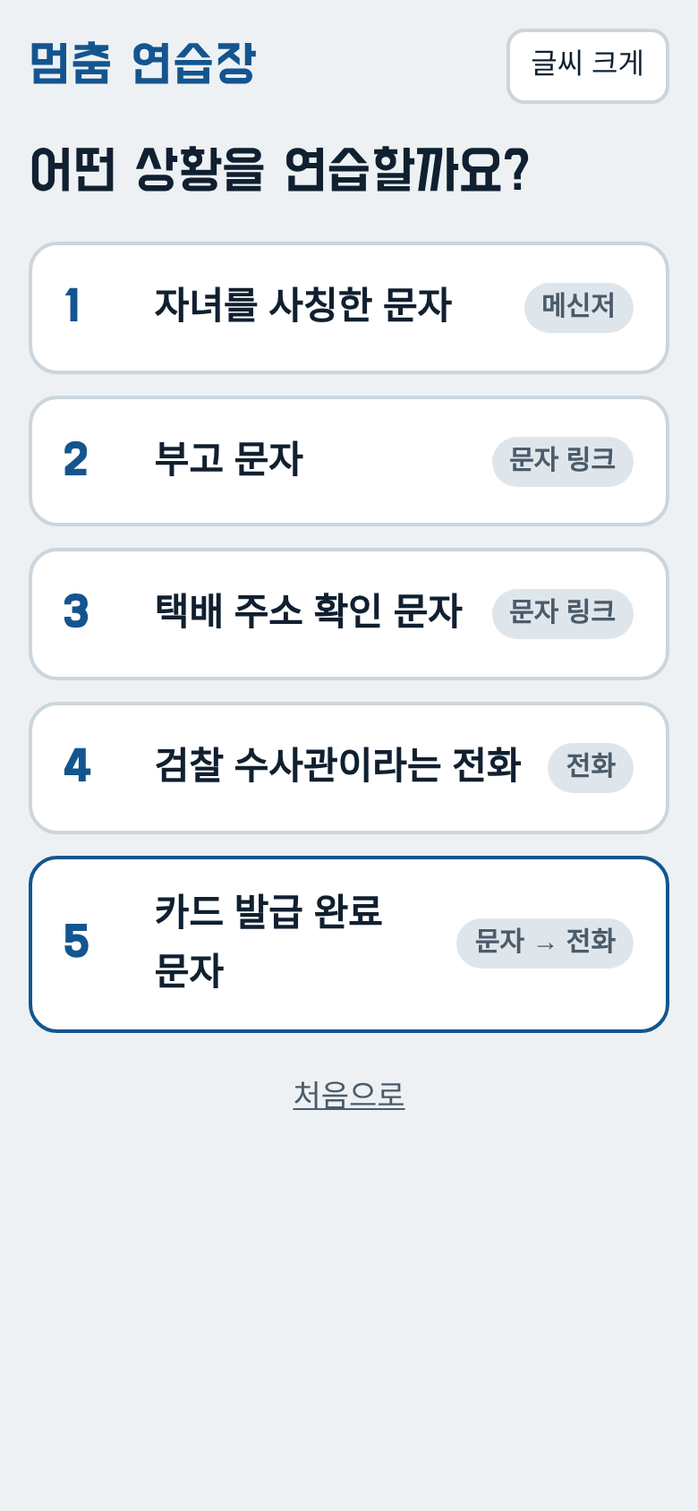
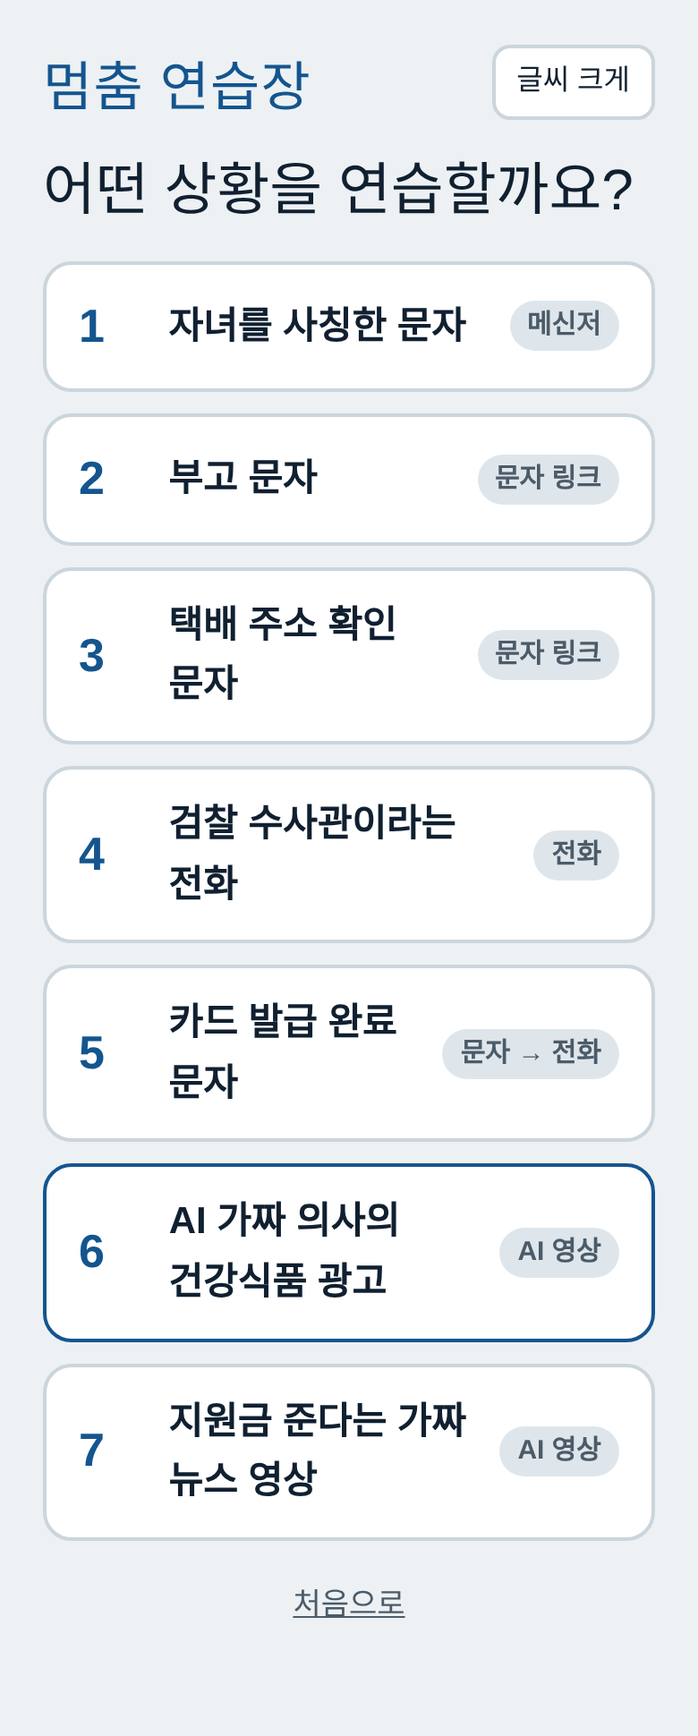
AI 허위 영상 시나리오 2개 추가, 분기 지도 자동 생성
- AI 가짜 의사 건강식품 광고, 지원금 가짜 뉴스 영상 시나리오
- 영상 화면 형식(프레임·채널·영상 속 말) 추가
- scripts/make-map.js: 분기 지도 생성 + 끊긴 선택지 검사
- 기록 화면 점수 분모를 문제 수에 맞춤
- README·조사·개발 일지·테스트 문서 갱신

Claude-Session: https://claude.ai/code/session_01ChggF4fzTzvr3BWw3pu4VJ

diff --git a/index.html b/index.html
@@ -76,6 +76,11 @@ p { margin: 0; }
 .call { padding: 22px 16px; text-align: center; display: flex; flex-direction: column; gap: 6px; align-items: center; }
 .call .ring { font-size: 0.8rem; color: var(--muted); letter-spacing: 0.08em; }
 .call .num { font-family: var(--font-display); font-size: 1.6rem; }
+.vframe { position: relative; aspect-ratio: 16 / 10; background: #0B1219; color: #FFFFFF; display: flex; align-items: flex-end; padding: 16px; box-sizing: border-box; }
+.vframe .vbadge { position: absolute; top: 12px; left: 12px; font-size: 0.7rem; font-weight: 700; background: #F2C230; color: #111; border-radius: 6px; padding: 2px 8px; }
+.vframe .vplay { position: absolute; top: 50%; left: 50%; transform: translate(-50%, -60%); width: 56px; height: 56px; border-radius: 50%; background: rgba(255,255,255,0.18); display: grid; place-items: center; font-size: 1.3rem; }
+.vframe .vcap { font-family: var(--font-display); font-size: 1.25rem; line-height: 1.3; text-shadow: 0 1px 3px rgba(0,0,0,0.6); }
+.bub.say::before { content: "영상 속 말: "; font-size: 0.75rem; font-weight: 700; color: var(--muted); display: block; }
 .ask { font-weight: 700; font-size: 1.1rem; }
 .speak { font: inherit; font-size: 0.85rem; font-weight: 700; color: var(--accent); background: none; border: 2px solid var(--accent); border-radius: 999px; padding: 6px 14px; align-self: flex-start; cursor: pointer; }
 .verdict { border-radius: 20px; padding: 20px; display: flex; flex-direction: column; gap: 10px; border: 2px solid; }
@@ -215,6 +220,45 @@ th { color: var(--muted); font-weight: 700; }
         danger1: { end: "danger", text: "설치한 앱으로 사기범이 휴대폰을 마음대로 조종해 계좌의 돈을 빼 갔어요." }
       },
       lesson: ["모르는 카드 발급 문자는 미끼입니다. 문자 속 번호로 전화하지 마세요.", "카드사나 은행 확인은 카드 뒷면이나 통장에 적힌 번호로 직접 하세요.", "전화로 앱을 설치하라고 하면 사기입니다."]
+    },
+    {
+      id: "aidoctor", tag: "AI 영상", title: "AI 가짜 의사의 건강식품 광고",
+      who: "닥터건강TV", sub: "광고 · 조회수 128만회", kind: "video", badge: "광고",
+      screen: "30년 정형외과 의사가 말하는\n무릎 통증, 이것 하나면 끝",
+      nodes: {
+        start: { msgs: [["them", "안녕하세요, 30년 경력 정형외과 의사입니다."], ["them", "무릎 연골, 약에만 의지하지 마세요. 이 추출물 하나면 2주 만에 계단을 가볍게 오릅니다."], ["them", "오늘 영상 보신 분만 70% 할인! 곧 마감됩니다."], ["note", "화면 아래에 [지금 구매하기] 버튼이 깜빡여요."]],
+          ask: "의사가 직접 나와서 권해요. 어떻게 하시겠어요?",
+          choices: [["의사가 하는 말이니 [지금 구매하기]를 누른다", "n2"], ["다니는 병원 의사나 약사에게 이 제품을 물어본다", "safe1"], ["자녀에게 영상을 보여 주고 같이 살펴본다", "safe2"]] },
+        n2: { msgs: [["note", "구매 화면이 나왔어요.\n'3개월분 189,000원 → 오늘만 56,700원\n이름, 주소, 카드번호를 입력하세요'"], ["note", "다시 보니 영상 속 의사의 입 모양이 말과 조금 어긋나 보여요."]],
+          ask: "할인이 오늘까지래요.",
+          choices: [["놓치기 전에 카드번호를 입력한다", "danger1"], ["뭔가 이상하다. 화면을 닫고 가족에게 물어본다", "warn1"]] },
+        safe1: { end: "safe", text: "약사에게 물어보니 '먹기만 하면 낫는' 건강식품은 없다고 했어요. 영상 속 의사는 AI로 만든 가짜였습니다." },
+        safe2: { end: "safe", text: "자녀가 함께 보더니 AI로 만든 가짜 의사라고 알려줬어요. 'AI로 만든 영상'이라는 표시도 없었어요." },
+        warn1: { end: "warn", text: "결제 전에 잘 멈추셨어요. 이미 돈을 냈다면 카드사와 1372(소비자상담센터)에 바로 알리세요." },
+        danger1: { end: "danger", text: "평범한 식품을 비싸게 산 데다, 카드 정보가 넘어가 다른 결제까지 빠져나갔어요. 먹던 약을 끊어 무릎 통증도 심해졌어요." }
+      },
+      lesson: ["광고 속 의사·유명인은 AI로 만든 가짜일 수 있어요. 영상에서 특정 제품을 사라고 하면 의심하세요.", "'먹기만 하면 낫는다', '오늘만 할인'은 과장 광고의 신호예요.", "사기 전에, 그리고 먹던 약을 끊기 전에 다니는 병원 의사나 약사에게 먼저 물어보세요."]
+    },
+    {
+      id: "fakenews", tag: "AI 영상", title: "지원금 준다는 가짜 뉴스 영상",
+      who: "속보뉴스24", sub: "조회수 54만회 · 3시간 전", kind: "video", badge: "속보",
+      screen: "65세 이상 '특별 생활지원금'\n50만 원 지급 확정",
+      nodes: {
+        start: { msgs: [["them", "정부가 65세 이상 어르신께 특별 생활지원금 50만 원을 지급하기로 했습니다."], ["them", "신청은 이번 주 금요일까지, 영상 아래 링크에서만 받습니다."], ["note", "영상 설명란: 신청하기 |gov-support.kr-apply.top|"]],
+          ask: "뉴스라서 믿음이 가요. 어떻게 하시겠어요?",
+          choices: [["링크를 눌러 바로 신청한다", "n2"], ["친구들 단체방에 영상을 공유한다", "n3"], ["주민센터나 129(보건복지상담센터)에 진짜인지 물어본다", "safe1"]] },
+        n2: { msgs: [["note", "정부 사이트처럼 생긴 화면이 나왔어요.\n'지원금 받을 계좌번호, 주민등록번호, 휴대폰 인증번호를 입력하세요'"]],
+          ask: "지원금 받을 계좌를 적으래요.",
+          choices: [["모두 입력하고 인증번호도 넣는다", "danger1"], ["인증번호까지 달라니 이상하다. 닫고 주민센터에 물어본다", "warn1"]] },
+        n3: { msgs: [["me", "이것 좀 봐요, 50만 원 준대요!"], ["note", "단체방 친구가 답했어요: '이거 AI로 만든 가짜 뉴스래. 우리 아들이 그러더라.'"]],
+          ask: "친구가 가짜라고 해요.",
+          choices: [["그래도 혹시 모르니 링크를 눌러 본다", "n2"], ["공유한 영상을 지우고 주민센터에 확인한다", "warn2"]] },
+        safe1: { end: "safe", text: "주민센터에서는 그런 지원금이 없다고 했어요. 영상 속 아나운서는 AI로 만든 가짜였습니다." },
+        warn1: { end: "warn", text: "개인정보를 넣기 전에 멈추셨어요. 이미 무언가 입력했다면 가족에게 알리고 118(한국인터넷진흥원)에 상담하세요." },
+        warn2: { end: "warn", text: "가짜 뉴스를 여러 사람에게 퍼뜨릴 뻔했어요. 놀라운 소식일수록 공유하기 전에 먼저 확인해요." },
+        danger1: { end: "danger", text: "주민등록번호와 인증번호로 사기범이 어르신 이름의 휴대폰을 만들고 대출을 받았어요. 지원금은 처음부터 없었습니다." }
+      },
+      lesson: ["정부 지원금은 영상 속 링크로 신청하지 않아요. 주민센터나 129에 먼저 물어보세요.", "아나운서와 뉴스 화면도 AI로 진짜처럼 만들 수 있어요. 믿을 만한 방송사 뉴스에도 나오는지 확인하세요.", "놀라운 영상일수록 공유하기 전에 멈추세요. 가족과 친구가 피해를 볼 수 있어요."]
     }
   ];
 
@@ -261,7 +305,7 @@ th { color: var(--muted); font-weight: 700; }
   function home() {
     const doneCount = SC.filter(s => store.played[s.id]).length;
     render(`
-      <h1>이상한 문자와 전화,<br>미리 겪어 보고 막아요</h1>
+      <h1>이상한 문자·전화·영상,<br>미리 겪어 보고 막아요</h1>
       <p class="lead">진짜 같은 사기 상황이 나와요. 버튼을 눌러 어떻게 할지 고르면, 무엇이 안전한지 알려 드려요.</p>
       <div class="rule" aria-label="기억할 세 가지">
         <div><b>멈춤</b>바로 하지 않기</div><div><b>끊기</b>전화·문자 끊기</div><div><b>확인</b>원래 번호로 전화</div>
@@ -294,11 +338,16 @@ th { color: var(--muted); font-weight: 700; }
   function step(nodeId) {
     const s = cur.s, n = s.nodes[nodeId];
     if (n.end) return ending(n);
-    const msgs = n.msgs.map(([w, t]) => `<div class="bub ${w === "me" ? "me" : w === "note" ? "note" : ""}">${fmt(t)}</div>`).join("");
+    const video = s.kind === "video";
+    const msgs = n.msgs.map(([w, t]) => `<div class="bub ${w === "me" ? "me" : w === "note" ? "note" : video ? "say" : ""}">${fmt(t)}</div>`).join("");
+    const icon = { call: "☎", chat: "✉", video: "▶" }[s.kind];
+    const head = `<div class="phone-head"><div class="avatar" aria-hidden="true">${icon}</div><div class="who">${esc(s.who)}<div class="sub">${esc(s.sub)}</div></div></div>`;
     const top = s.kind === "call" && nodeId === "start"
       ? `<div class="call"><span class="ring">걸려온 전화</span><span class="num">${esc(s.who)}</span></div>`
-      : `<div class="phone-head"><div class="avatar" aria-hidden="true">${s.kind === "call" ? "☎" : "✉"}</div><div class="who">${esc(s.who)}<div class="sub">${esc(s.sub)}</div></div></div>`;
-    const readText = n.msgs.map(m => plain(m[1])).join(" ") + " " + n.ask + " " + n.choices.map((c, i) => (i + 1) + "번, " + c[0]).join(". ");
+      : video && nodeId === "start"
+        ? `<div class="vframe" role="img" aria-label="영상 화면: ${esc(plain(s.screen))}"><span class="vbadge">${esc(s.badge)}</span><span class="vplay" aria-hidden="true">▶</span><span class="vcap">${fmt(s.screen)}</span></div>${head}`
+        : head;
+    const readText = (video && nodeId === "start" ? plain(s.screen) + ". " : "") + n.msgs.map(m => plain(m[1])).join(" ") + " " + n.ask + " " + n.choices.map((c, i) => (i + 1) + "번, " + c[0]).join(". ");
     render(`
       <p class="trail">${esc(s.title)}</p>
       <div class="phone">${top}<div class="chat">${msgs}</div></div>
@@ -418,10 +467,10 @@ th { color: var(--muted); font-weight: 700; }
     const rows = Object.keys(people).map(p => {
       const a = people[p]["사전"], b = people[p]["사후"];
       const d = a && b ? b.score - a.score : null;
-      return `<tr><td>${esc(p)}</td><td>${a ? a.score + "/5" : "-"}</td><td>${b ? b.score + "/5" : "-"}</td><td>${d === null ? "-" : (d > 0 ? "+" : "") + d}</td></tr>`;
+      return `<tr><td>${esc(p)}</td><td>${a ? a.score + "/" + QUIZ.length : "-"}</td><td>${b ? b.score + "/" + QUIZ.length : "-"}</td><td>${d === null ? "-" : (d > 0 ? "+" : "") + d}</td></tr>`;
     }).join("");
     const pre = store.tests.filter(r => r.phase === "사전"), post = store.tests.filter(r => r.phase === "사후");
-    const avg = arr => arr.length ? (arr.reduce((n, r) => n + r.score, 0) / arr.length / 5 * 100).toFixed(0) + "%" : "-";
+    const avg = arr => arr.length ? (arr.reduce((n, r) => n + r.score, 0) / arr.length / QUIZ.length * 100).toFixed(0) + "%" : "-";
     const ends = { safe: 0, warn: 0, danger: 0 };
     store.plays.forEach(p => ends[p.end]++);
     render(`

diff --git a/scripts/make-map.js b/scripts/make-map.js
@@ -1,0 +1,55 @@
+// index.html의 시나리오 데이터(SC)로 docs/scenario-map.md를 다시 만듭니다.
+// 사용법: node scripts/make-map.js
+const fs = require("fs");
+const path = require("path");
+
+const root = path.join(__dirname, "..");
+const html = fs.readFileSync(path.join(root, "index.html"), "utf8");
+const m = html.match(/const SC = (\[[\s\S]*?\n  \]);/);
+if (!m) throw new Error("index.html에서 SC 배열을 찾지 못했습니다.");
+const SC = new Function("return " + m[1])();
+
+const q = s => String(s).replace(/\|/g, "").replace(/\n/g, " ").replace(/"/g, "'");
+const label = { safe: "안전", warn: "아슬아슬", danger: "피해" };
+
+// 데이터 점검: 없는 노드로 가는 선택지, 도달할 수 없는 노드
+for (const s of SC) {
+  const seen = new Set(), todo = ["start"];
+  while (todo.length) {
+    const id = todo.pop();
+    if (seen.has(id)) continue;
+    const n = s.nodes[id];
+    if (!n) throw new Error(`${s.id}: 없는 노드 '${id}'`);
+    seen.add(id);
+    if (!n.end) n.choices.forEach(c => todo.push(c[1]));
+  }
+  const orphan = Object.keys(s.nodes).filter(id => !seen.has(id));
+  if (orphan.length) throw new Error(`${s.id}: 도달할 수 없는 노드 ${orphan.join(", ")}`);
+}
+
+let asks = 0, ends = 0;
+const parts = SC.map((s, i) => {
+  const lines = ["```mermaid", "flowchart TD"];
+  for (const [id, n] of Object.entries(s.nodes)) {
+    const k = `${s.id}_${id}`;
+    if (n.end) {
+      ends++;
+      lines.push(`  ${k}["${label[n.end]}: ${q(n.text)}"]:::${n.end}`);
+    } else {
+      asks++;
+      lines.push(`  ${k}{"${q(n.ask)}"}`);
+      n.choices.forEach(([t, to]) => lines.push(`  ${k} -->|"${q(t)}"| ${s.id}_${to}`));
+    }
+  }
+  lines.push("  classDef safe fill:#E2F3E9,stroke:#1A7A47", "  classDef warn fill:#FBF0DC,stroke:#9A5B00", "  classDef danger fill:#FBE5E3,stroke:#B8322A", "```");
+  return `## ${i + 1}. ${s.title}\n\n${lines.join("\n")}\n\n**이것만 기억하세요**\n\n${s.lesson.map((l, j) => `${j + 1}. ${l}`).join("\n")}\n`;
+});
+
+const out = `# 시나리오 분기 지도
+
+${SC.length}개 시나리오의 선택 흐름입니다. 초록은 안전, 노랑은 아슬아슬, 빨강은 피해 결말입니다. \`index.html\`의 시나리오 데이터에서 \`node scripts/make-map.js\`로 자동으로 만들었습니다.
+선택 화면 ${asks}개, 결말 ${ends}개.
+
+${parts.join("\n")}`;
+fs.writeFileSync(path.join(root, "docs", "scenario-map.md"), out);
+console.log(`시나리오 ${SC.length}개, 선택 화면 ${asks}개, 결말 ${ends}개`);

diff --git a/README.md b/README.md
@@ -1,8 +1,8 @@
 # 멈춤 연습장
 
-> 어르신이 사기 문자와 전화를 **미리 겪어 보고** 대응을 연습하는 모바일 웹앱
+> 어르신이 사기 문자·전화·AI 허위 영상을 **미리 겪어 보고** 대응을 연습하는 모바일 웹앱
 
-**▶ 바로 써 보기:** https://<깃허브-아이디>.github.io/mumchum/ (설치 없이 휴대폰 브라우저에서 열림)
+**▶ 바로 써 보기:** https://haseungjune0614-create.github.io/mumchum/ (설치 없이 휴대폰 브라우저에서 열림)
 
 가천대학교 아르테크네센터 2026 프로젝트 「정해진 답은 없다」 참가작입니다.
 키워드: **대상** 노인 · **물건** 스마트폰 · **형식** 앱 · **목적** 안전
@@ -15,9 +15,10 @@
 
 ## 왜 만들었나
 
-어르신은 자녀 사칭 문자, 부고·택배 링크, 검찰 사칭 전화 같은 사기에 자주 노출되지만, 막상 그 순간에 어떻게 해야 하는지는 미리 연습할 기회가 없습니다.
+어르신은 자녀 사칭 문자, 부고·택배 링크, 검찰 사칭 전화, AI로 만든 가짜 의사·가짜 뉴스 영상 같은 사기에 자주 노출되지만, 막상 그 순간에 어떻게 해야 하는지는 미리 연습할 기회가 없습니다.
 
 - 2025년 보이스피싱 피해액은 **1조 2,578억 원**으로 최근 5년 중 최대이고, 그중 **78.6%가 기관사칭형**입니다. ([경찰청 자료 보도](https://www.inews24.com/view/2008688))
+- 2026년 4월 유튜브 '노인 건강' 조회수 상위 100개 영상 중 **42개가 생성형 AI로 제작**됐고, **24개는 의사 등 전문가를 사칭**했습니다. ([한국건강증진개발원 자료 보도](https://biz.sbs.co.kr/amp/article/20000340952))
 - 2025년 상반기 스미싱 문자 약 3만 7천 건 중 금융기관 사칭 19%, 청첩·부고 등 지인 사칭 12%였습니다. ([카카오뱅크 분석 보도](https://biz.sbs.co.kr/amp/article/20000245520))
 
 설명을 읽는 교육보다 **직접 골라 보고 결과를 겪어 보는 연습**이 실제 상황에서 행동으로 이어진다고 보고, 선택형 시뮬레이터로 만들었습니다.
@@ -35,7 +36,7 @@
 
 | 기능 | 내용 |
 | --- | --- |
-| 사기 상황 5개 | 자녀 사칭 문자 · 부고 링크 문자 · 택배 문자 · 검찰 사칭 전화 · 카드 발급 문자 ([분기 지도](docs/scenario-map.md)) |
+| 사기 상황 7개 | 자녀 사칭 문자 · 부고 링크 문자 · 택배 문자 · 검찰 사칭 전화 · 카드 발급 문자 · **AI 가짜 의사 광고 · 가짜 뉴스 영상** ([분기 지도](docs/scenario-map.md)) |
 | 어르신용 화면 | 기본 20px 글씨, "글씨 크게" 24px, 버튼 높이 64px 이상, 한 화면에 질문 하나 |
 | 소리로 듣기 | 문자 내용과 선택지를 음성으로 읽어 줌 (브라우저 음성 합성) |
 | 가족 암호 카드 | 가족만 아는 질문을 정해 큰 카드로 보여 줌 |
@@ -47,6 +48,11 @@
   <img src="screenshots/08_family.png" width="230" alt="가족 암호 카드">
   <img src="screenshots/09_records.png" width="230" alt="사전·사후 기록">
 </p>
+<p>
+  <img src="screenshots/11_ai_doctor.png" width="230" alt="AI 가짜 의사 건강식품 광고">
+  <img src="screenshots/13_fake_news.png" width="230" alt="지원금 가짜 뉴스 영상">
+  <img src="screenshots/14_fake_news_warn.png" width="230" alt="가짜 뉴스 공유 결말">
+</p>
 
 ## 기술
 
@@ -54,6 +60,7 @@
 - 기록은 브라우저 `localStorage`에만 저장 (개인정보를 서버로 보내지 않음)
 - Web Speech API로 음성 읽기, 다크 모드 지원
 - 시나리오는 노드 그래프 데이터로 작성 → 새 사기 유형을 데이터만 추가해 확장
+- `node scripts/make-map.js`로 분기 지도 문서를 자동 생성하고, 끊긴 선택지·도달할 수 없는 화면을 검사
 - 개발 과정에서 생성형 AI(Claude)를 활용했습니다
 
 ## 진행 과정
@@ -62,13 +69,13 @@
 | --- | --- |
 | [조사와 인터뷰](docs/01-research.md) | 사기 통계, 할머니 인터뷰, 유형 선정 이유 |
 | [설계](docs/02-design.md) | 분기 구조, 어르신 사용성 기준, 사전·사후 문제 설계 |
-| [시나리오 분기 지도](docs/scenario-map.md) | 5개 시나리오의 선택 흐름 (선택 화면 11개, 결말 17개) |
+| [시나리오 분기 지도](docs/scenario-map.md) | 7개 시나리오의 선택 흐름 (선택 화면 16개, 결말 25개) |
 | [테스트](docs/03-testing.md) | 어르신 사전·사후 테스트 방법과 결과 |
 | [개발 일지](docs/devlog.md) | 날짜별 진행 기록 |
 
 ## 다음 계획
 
-- [ ] AI 허위 영상 구별 시나리오 추가 (건강식품·약 광고, 가짜 뉴스 영상) — 할머니 인터뷰에서 나온 요구
+- [x] AI 허위 영상 구별 시나리오 추가 (건강식품·약 광고, 가짜 뉴스 영상) — 할머니 인터뷰에서 나온 요구
 - [ ] 어르신 3명 이상 사전·사후 테스트, 정답률 비교
 - [ ] 테스트 피드백 반영
 - [ ] 3분 시연 영상

diff --git a/docs/scenario-map.md b/docs/scenario-map.md
@@ -1,8 +1,7 @@
 # 시나리오 분기 지도
 
-5개 시나리오의 선택 흐름입니다. 초록은 안전, 노랑은 아슬아슬, 빨강은 피해 결말입니다. `index.html`의 시나리오 데이터에서 자동으로 만들었습니다.
-선택 화면 11개, 결말 17개.
-
+7개 시나리오의 선택 흐름입니다. 초록은 안전, 노랑은 아슬아슬, 빨강은 피해 결말입니다. `index.html`의 시나리오 데이터에서 `node scripts/make-map.js`로 자동으로 만들었습니다.
+선택 화면 16개, 결말 25개.
 
 ## 1. 자녀를 사칭한 문자
 
@@ -135,3 +134,58 @@ flowchart TD
 1. 모르는 카드 발급 문자는 미끼입니다. 문자 속 번호로 전화하지 마세요.
 2. 카드사나 은행 확인은 카드 뒷면이나 통장에 적힌 번호로 직접 하세요.
 3. 전화로 앱을 설치하라고 하면 사기입니다.
+
+## 6. AI 가짜 의사의 건강식품 광고
+
+```mermaid
+flowchart TD
+  aidoctor_start{"의사가 직접 나와서 권해요. 어떻게 하시겠어요?"}
+  aidoctor_start -->|"의사가 하는 말이니 [지금 구매하기]를 누른다"| aidoctor_n2
+  aidoctor_start -->|"다니는 병원 의사나 약사에게 이 제품을 물어본다"| aidoctor_safe1
+  aidoctor_start -->|"자녀에게 영상을 보여 주고 같이 살펴본다"| aidoctor_safe2
+  aidoctor_n2{"할인이 오늘까지래요."}
+  aidoctor_n2 -->|"놓치기 전에 카드번호를 입력한다"| aidoctor_danger1
+  aidoctor_n2 -->|"뭔가 이상하다. 화면을 닫고 가족에게 물어본다"| aidoctor_warn1
+  aidoctor_safe1["안전: 약사에게 물어보니 '먹기만 하면 낫는' 건강식품은 없다고 했어요. 영상 속 의사는 AI로 만든 가짜였습니다."]:::safe
+  aidoctor_safe2["안전: 자녀가 함께 보더니 AI로 만든 가짜 의사라고 알려줬어요. 'AI로 만든 영상'이라는 표시도 없었어요."]:::safe
+  aidoctor_warn1["아슬아슬: 결제 전에 잘 멈추셨어요. 이미 돈을 냈다면 카드사와 1372(소비자상담센터)에 바로 알리세요."]:::warn
+  aidoctor_danger1["피해: 평범한 식품을 비싸게 산 데다, 카드 정보가 넘어가 다른 결제까지 빠져나갔어요. 먹던 약을 끊어 무릎 통증도 심해졌어요."]:::danger
+  classDef safe fill:#E2F3E9,stroke:#1A7A47
+  classDef warn fill:#FBF0DC,stroke:#9A5B00
+  classDef danger fill:#FBE5E3,stroke:#B8322A
+```
+
+**이것만 기억하세요**
+
+1. 광고 속 의사·유명인은 AI로 만든 가짜일 수 있어요. 영상에서 특정 제품을 사라고 하면 의심하세요.
+2. '먹기만 하면 낫는다', '오늘만 할인'은 과장 광고의 신호예요.
+3. 사기 전에, 그리고 먹던 약을 끊기 전에 다니는 병원 의사나 약사에게 먼저 물어보세요.
+
+## 7. 지원금 준다는 가짜 뉴스 영상
+
+```mermaid
+flowchart TD
+  fakenews_start{"뉴스라서 믿음이 가요. 어떻게 하시겠어요?"}
+  fakenews_start -->|"링크를 눌러 바로 신청한다"| fakenews_n2
+  fakenews_start -->|"친구들 단체방에 영상을 공유한다"| fakenews_n3
+  fakenews_start -->|"주민센터나 129(보건복지상담센터)에 진짜인지 물어본다"| fakenews_safe1
+  fakenews_n2{"지원금 받을 계좌를 적으래요."}
+  fakenews_n2 -->|"모두 입력하고 인증번호도 넣는다"| fakenews_danger1
+  fakenews_n2 -->|"인증번호까지 달라니 이상하다. 닫고 주민센터에 물어본다"| fakenews_warn1
+  fakenews_n3{"친구가 가짜라고 해요."}
+  fakenews_n3 -->|"그래도 혹시 모르니 링크를 눌러 본다"| fakenews_n2
+  fakenews_n3 -->|"공유한 영상을 지우고 주민센터에 확인한다"| fakenews_warn2
+  fakenews_safe1["안전: 주민센터에서는 그런 지원금이 없다고 했어요. 영상 속 아나운서는 AI로 만든 가짜였습니다."]:::safe
+  fakenews_warn1["아슬아슬: 개인정보를 넣기 전에 멈추셨어요. 이미 무언가 입력했다면 가족에게 알리고 118(한국인터넷진흥원)에 상담하세요."]:::warn
+  fakenews_warn2["아슬아슬: 가짜 뉴스를 여러 사람에게 퍼뜨릴 뻔했어요. 놀라운 소식일수록 공유하기 전에 먼저 확인해요."]:::warn
+  fakenews_danger1["피해: 주민등록번호와 인증번호로 사기범이 어르신 이름의 휴대폰을 만들고 대출을 받았어요. 지원금은 처음부터 없었습니다."]:::danger
+  classDef safe fill:#E2F3E9,stroke:#1A7A47
+  classDef warn fill:#FBF0DC,stroke:#9A5B00
+  classDef danger fill:#FBE5E3,stroke:#B8322A
+```
+
+**이것만 기억하세요**
+
+1. 정부 지원금은 영상 속 링크로 신청하지 않아요. 주민센터나 129에 먼저 물어보세요.
+2. 아나운서와 뉴스 화면도 AI로 진짜처럼 만들 수 있어요. 믿을 만한 방송사 뉴스에도 나오는지 확인하세요.
+3. 놀라운 영상일수록 공유하기 전에 멈추세요. 가족과 친구가 피해를 볼 수 있어요.

diff --git a/docs/01-research.md b/docs/01-research.md
@@ -12,6 +12,8 @@
 | 2025년 건당 피해액 | 약 5,384만 원 (2021년의 약 2.2배) | 같은 출처 |
 | 기관사칭형 비중 | 피해액의 78.6% (9,884억 원) | 같은 출처 |
 | 2025년 상반기 스미싱 문구 유형 (약 3만 7천 건) | 개인정보 유출 사칭 37%, 금융기관 사칭 19%, 기업·광고 사칭 18%, 청첩·부고 등 지인 사칭 12%, 단속 사칭 10% | [카카오뱅크 분석, SBS Biz](https://biz.sbs.co.kr/amp/article/20000245520) |
+| 2026년 4월 유튜브 '노인 건강' 조회수 상위 100개 영상 | 42개가 생성형 AI 제작, 24개가 의사 등 전문가 사칭 | [한국건강증진개발원 자료, SBS Biz](https://biz.sbs.co.kr/amp/article/20000340952) |
+| AI 가짜 의사 식품 과대광고 적발 (식약처) | 일반 식품을 노화 방지 효과가 있는 것처럼 광고, 9개월간 약 81억 원 매출 | [뉴시스](https://www.newsis.com/view/NISX20260610_0003662980) |
 | 2025년 상반기 광주 1억 원 이상 피해자 | 41명 중 28명이 60대 이상 | [광주·전남경찰청, 뉴시스](https://www.newsis.com/view/NISX20250801_0003275472) |
 
 ## 할머니 인터뷰 (11월 7일)
@@ -29,6 +31,9 @@
 | 택배 주소 확인 문자 | [국제발신] 재배송비 명목으로 카드 정보 입력 유도 | 쓰던 택배 앱·판매처에서 직접 확인 |
 | 검찰 사칭 전화 | "통장이 범죄에 쓰였다", 안전계좌 이체·비밀 유지 요구 | 일단 끊고 112 또는 가족에게 알리기 |
 | 카드 발급 문자 | 가짜 고객센터 → 금감원 사칭 → 원격조종 앱 설치 | 카드 뒷면 번호로 직접 전화 |
-| AI 허위 영상 (추가 예정) | 건강식품·약 광고, 가짜 뉴스 영상 | 출처 확인, 구매·공유 전에 멈추기 |
+| AI 가짜 의사 광고 | AI로 만든 의사가 건강식품을 권하고 '오늘만 할인'으로 결제 유도 | 다니는 병원 의사·약사에게 확인, 구매 전에 멈추기 |
+| 가짜 뉴스 영상 | AI 아나운서가 '지원금 지급' 보도, 설명란 링크로 개인정보·인증번호 요구 | 주민센터·129에 확인, 공유 전에 멈추기 |
 
 기관사칭형이 피해액의 대부분을 차지해 검찰 사칭(전화)과 카드 발급(문자에서 전화로 이어짐) 두 경로를 모두 넣었고, 어르신이 가장 많이 받는 지인 사칭·링크형 문자를 나머지로 골랐습니다.
+
+AI 허위 영상 2개는 할머니 인터뷰에서 나온 두 갈래(건강식품·약 광고, 가짜 뉴스)를 그대로 옮겼습니다. 가짜 뉴스는 특정 정치 주제 대신 어르신이 실제 금전 피해로 이어지기 쉬운 '지원금' 소재로 만들었습니다.

diff --git a/docs/devlog.md b/docs/devlog.md
@@ -2,6 +2,13 @@
 
 최신 기록이 위에 있습니다.
 
+## 2026-11-17 (4주차)
+
+- AI 허위 영상 시나리오 2개 추가: AI 가짜 의사 건강식품 광고, 지원금 가짜 뉴스 영상 (할머니 인터뷰 반영)
+- 영상 화면 형식(영상 프레임, 채널 정보, "영상 속 말" 자막) 추가
+- 분기 지도 자동 생성 스크립트(`scripts/make-map.js`) 추가 — 끊긴 선택지 검사 포함
+- 노인 건강 유튜브 AI 영상 통계 조사 추가
+
 ## 2026-11-10 (3주차)
 
 - 웹앱 「멈춤 연습장」 프로토타입 완성: 시나리오 5개, 결말 화면, 가족 암호 카드, 사전·사후 문제, 기록 저장·CSV 복사, 음성 읽기, 글씨 크기 전환

diff --git a/docs/03-testing.md b/docs/03-testing.md
@@ -5,7 +5,7 @@
 참여자: 어르신 3명 이상 (현재 2명 섭외, 1명 이상 추가 섭외 중)
 
 1. **사전 문제**: 앱의 연구용 메뉴에서 참여자 번호를 넣고 5문항 풀기
-2. **연습**: 시나리오 5개를 차례로 체험
+2. **연습**: 시나리오 7개를 차례로 체험 (문자·전화 5개 + AI 영상 2개)
 3. **가족 암호 정하기**
 4. **사후 문제**: 같은 5문항 다시 풀기
 5. **짧은 인터뷰**: 어려웠던 화면, 실제로 도움이 될 것 같은지, 더 넣고 싶은 사기 유형
